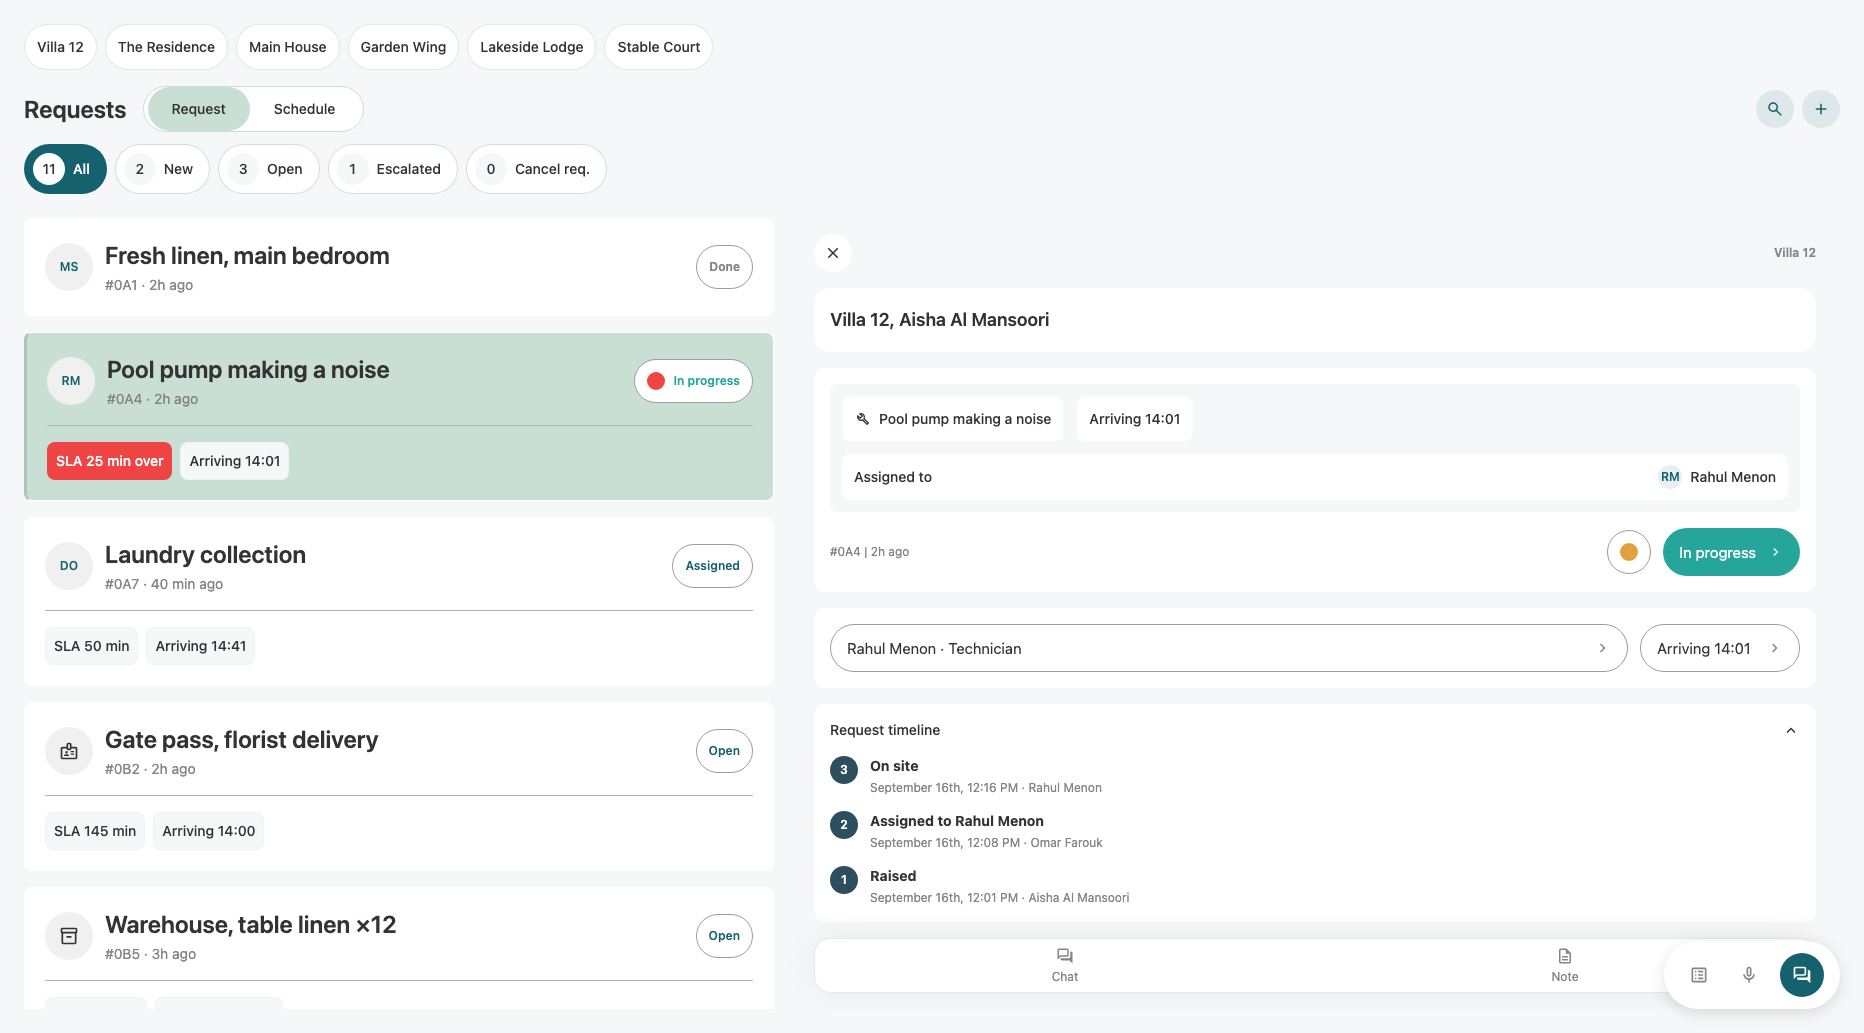
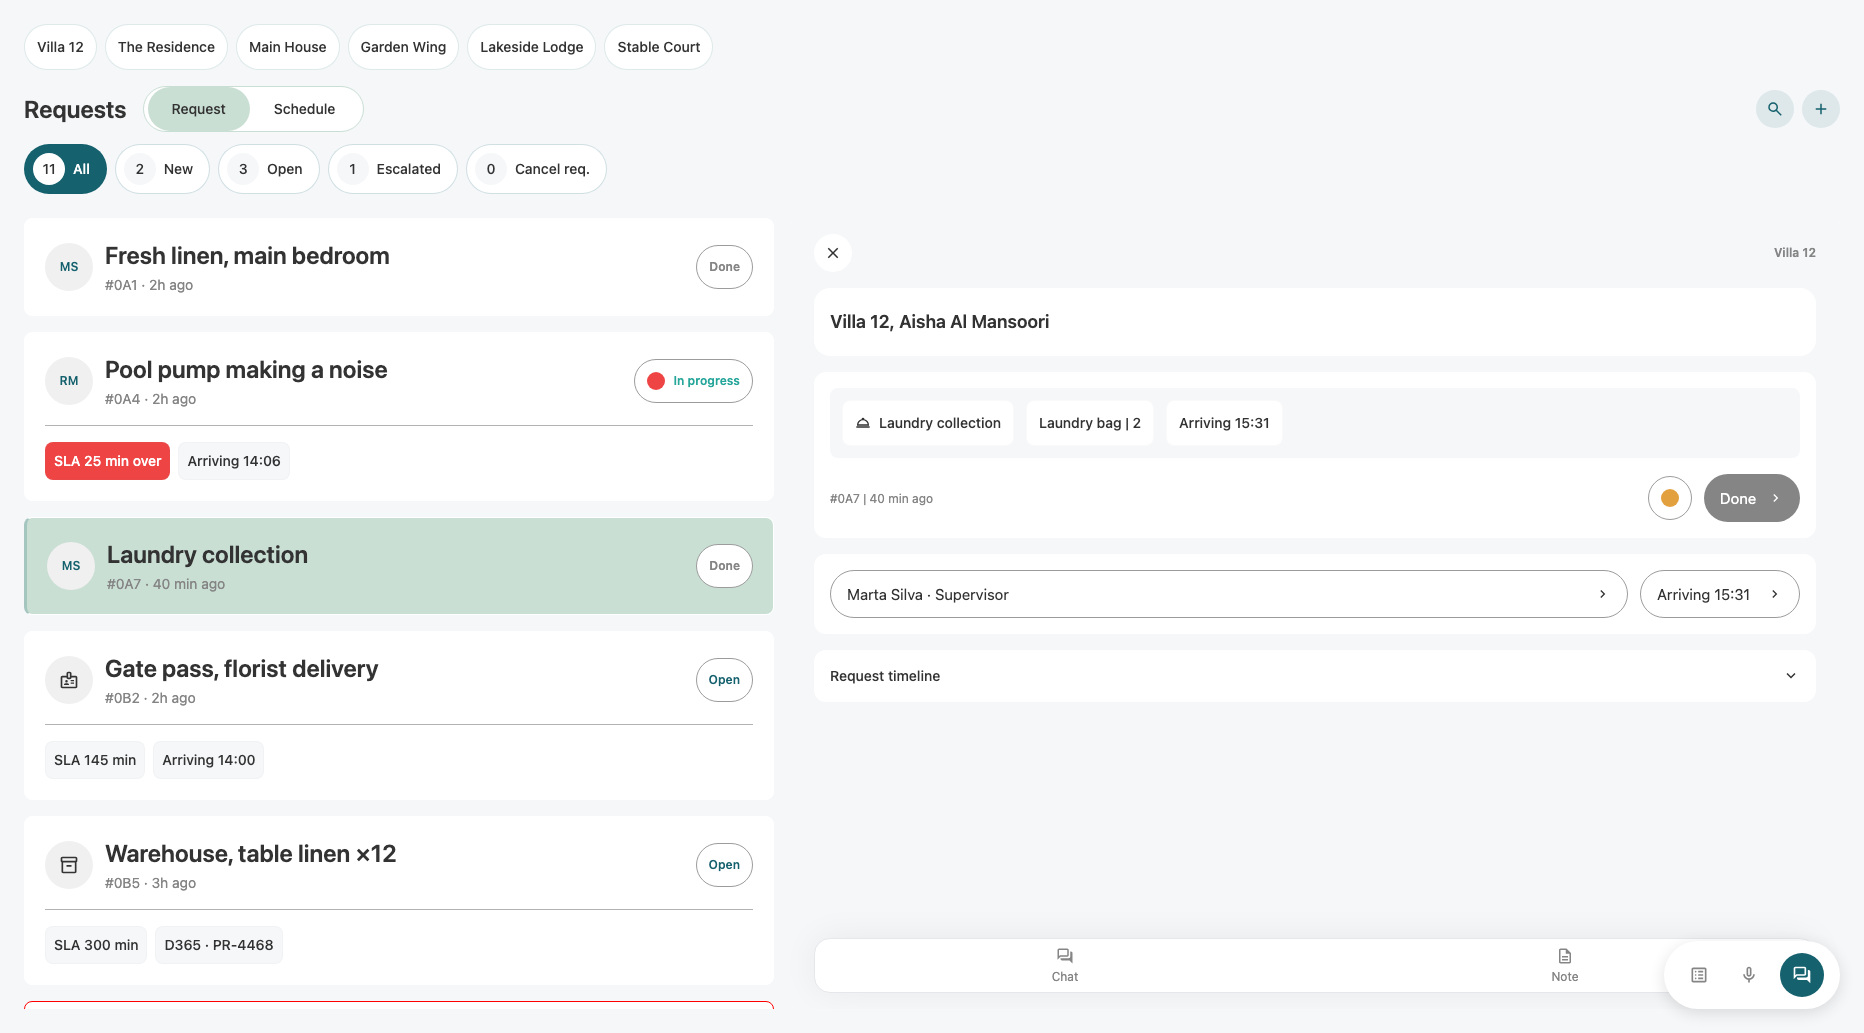
Drop the Assigned to row, one dropdown primitive for all three
The assignment already reads from the staff dropdown below, so the row
in the grey inset was duplicating it.

Status, staff and ETA now share a single Dropdown: a styled pill with a
chevron and a native select laid over it. Previously only status looked
like that and the other two were bare selects.

diff --git a/src/luna/RequestDetail.tsx b/src/luna/RequestDetail.tsx
@@ -8,7 +8,7 @@ import {
   type Request,
   type RequestStatus,
 } from '../store';
-import { Avatar, Button, Icon, Select, Tabs } from '../ui';
+import { Avatar, Button, Icon, Tabs } from '../ui';
 import { typeIcon } from './typeIcon';
 
 const ID = 'L-02';
@@ -26,6 +26,51 @@ const statusTone = (r: Request) => {
   if (r.status === 'new' || r.status === 'in_progress') return 'bg-statusLive';
   return 'bg-primary';
 };
+
+// A styled trigger with a native select laid over it. Every dropdown in the
+// panel uses this, so status, staff and ETA look and behave the same.
+function Dropdown({
+  id,
+  value,
+  options,
+  onChange,
+  className = '',
+  tone = 'outline',
+}: {
+  id: string;
+  value: string;
+  options: { value: string; label: string }[];
+  onChange: (value: string) => void;
+  className?: string;
+  tone?: 'outline' | string;
+}) {
+  const label = options.find((o) => o.value === value)?.label ?? options[0]?.label;
+  const look =
+    tone === 'outline'
+      ? 'border border-borderMuted bg-surface text-text'
+      : `${tone} text-textOnPrimary`;
+
+  return (
+    <span
+      className={`relative inline-flex h-select items-center justify-between gap-md rounded-pill px-lg text-nav ${look} ${className}`}
+    >
+      {label}
+      <Icon name="chevronRight" size={16} />
+      <select
+        data-id={id}
+        value={value}
+        onChange={(e) => onChange(e.target.value)}
+        className="absolute inset-0 cursor-pointer opacity-0"
+      >
+        {options.map((o) => (
+          <option key={o.value} value={o.value}>
+            {o.label}
+          </option>
+        ))}
+      </select>
+    </span>
+  );
+}
 
 // White block on the page-coloured panel, radius 12, 16 padding — the wrapper
 // every section of the live detail panel uses.
@@ -55,7 +100,6 @@ export function RequestDetail({ request }: { request: Request }) {
 
   const property = properties.find((p) => p.id === request.property);
   const resident = residents.find((r) => r.id === request.requester);
-  const assignee = staff.find((s) => s.id === request.assignee);
   const people = { staff, residents };
 
   const messages = request.timeline.filter((t) => t.kind === 'message');
@@ -112,15 +156,6 @@ export function RequestDetail({ request }: { request: Request }) {
               )}
             </div>
 
-            {assignee && (
-              <div className="mt-md flex h-detailChip items-center justify-between rounded-card border-dashed border-borderMuted bg-surface px-md text-bodyMed">
-                <span>Assigned to</span>
-                <span className="flex items-center gap-sm">
-                  <Avatar initials={assignee.initials} size="sm" />
-                  {assignee.name}
-                </span>
-              </div>
-            )}
           </div>
 
           <div className="mt-lg flex items-center gap-md">
@@ -134,68 +169,50 @@ export function RequestDetail({ request }: { request: Request }) {
                   <span className="h-dot w-dot rounded-circle bg-statusEscalated" />
                 )}
               </span>
-              <span
-                className={`relative inline-flex h-select items-center gap-md rounded-pill pl-lg pr-lg text-nav text-textOnPrimary ${statusTone(request)}`}
-              >
-                {statusOptions.find((o) => o.value === request.status)?.label}
-                <Icon name="chevronRight" size={16} />
-                <select
-                  data-id={`${ID}/status`}
-                  value={request.status}
-                  onChange={(e) =>
-                    dispatch({
-                      kind: 'setStatus',
-                      id: request.id,
-                      status: e.target.value as RequestStatus,
-                    })
-                  }
-                  className="absolute inset-0 cursor-pointer opacity-0"
-                >
-                  {statusOptions.map((o) => (
-                    <option key={o.value} value={o.value}>
-                      {o.label}
-                    </option>
-                  ))}
-                </select>
-              </span>
+              <Dropdown
+                id={`${ID}/status`}
+                value={request.status}
+                options={statusOptions}
+                tone={statusTone(request)}
+                onChange={(v) =>
+                  dispatch({ kind: 'setStatus', id: request.id, status: v as RequestStatus })
+                }
+              />
             </span>
           </div>
         </Block>
 
         <Block>
-          <div className="flex items-end gap-md">
-            <span className="flex-1">
-              <Select
-                data-id={`${ID}/staff`}
-                value={request.assignee ?? ''}
-                options={[
-                  { value: '', label: 'Select staff' },
-                  ...staff.map((s) => ({ value: s.id, label: `${s.name} · ${s.role}` })),
-                ]}
-                onChange={(e) =>
-                  e.target.value &&
-                  dispatch({ kind: 'assignRequest', id: request.id, staffId: e.target.value })
-                }
-              />
-            </span>
-            <span className="w-etaSelect">
-              <Select
-                data-id={`${ID}/eta`}
-                value=""
-                options={[
-                  { value: '', label: request.eta ? `Arriving ${clockTime(request.eta)}` : 'Set ETA' },
-                  ...ETA_CHOICES,
-                ]}
-                onChange={(e) =>
-                  e.target.value &&
-                  dispatch({
-                    kind: 'setEta',
-                    id: request.id,
-                    eta: new Date(Date.now() + Number(e.target.value) * 60_000).toISOString(),
-                  })
-                }
-              />
-            </span>
+          <div className="flex items-center gap-md">
+            <Dropdown
+              id={`${ID}/staff`}
+              className="min-w-0 flex-1"
+              value={request.assignee ?? ''}
+              options={[
+                { value: '', label: 'Select staff' },
+                ...staff.map((s) => ({ value: s.id, label: `${s.name} · ${s.role}` })),
+              ]}
+              onChange={(v) =>
+                v && dispatch({ kind: 'assignRequest', id: request.id, staffId: v })
+              }
+            />
+            <Dropdown
+              id={`${ID}/eta`}
+              className="w-etaSelect shrink-0"
+              value=""
+              options={[
+                { value: '', label: request.eta ? `Arriving ${clockTime(request.eta)}` : 'Set ETA' },
+                ...ETA_CHOICES,
+              ]}
+              onChange={(v) =>
+                v &&
+                dispatch({
+                  kind: 'setEta',
+                  id: request.id,
+                  eta: new Date(Date.now() + Number(v) * 60_000).toISOString(),
+                })
+              }
+            />
           </div>
         </Block>
 
